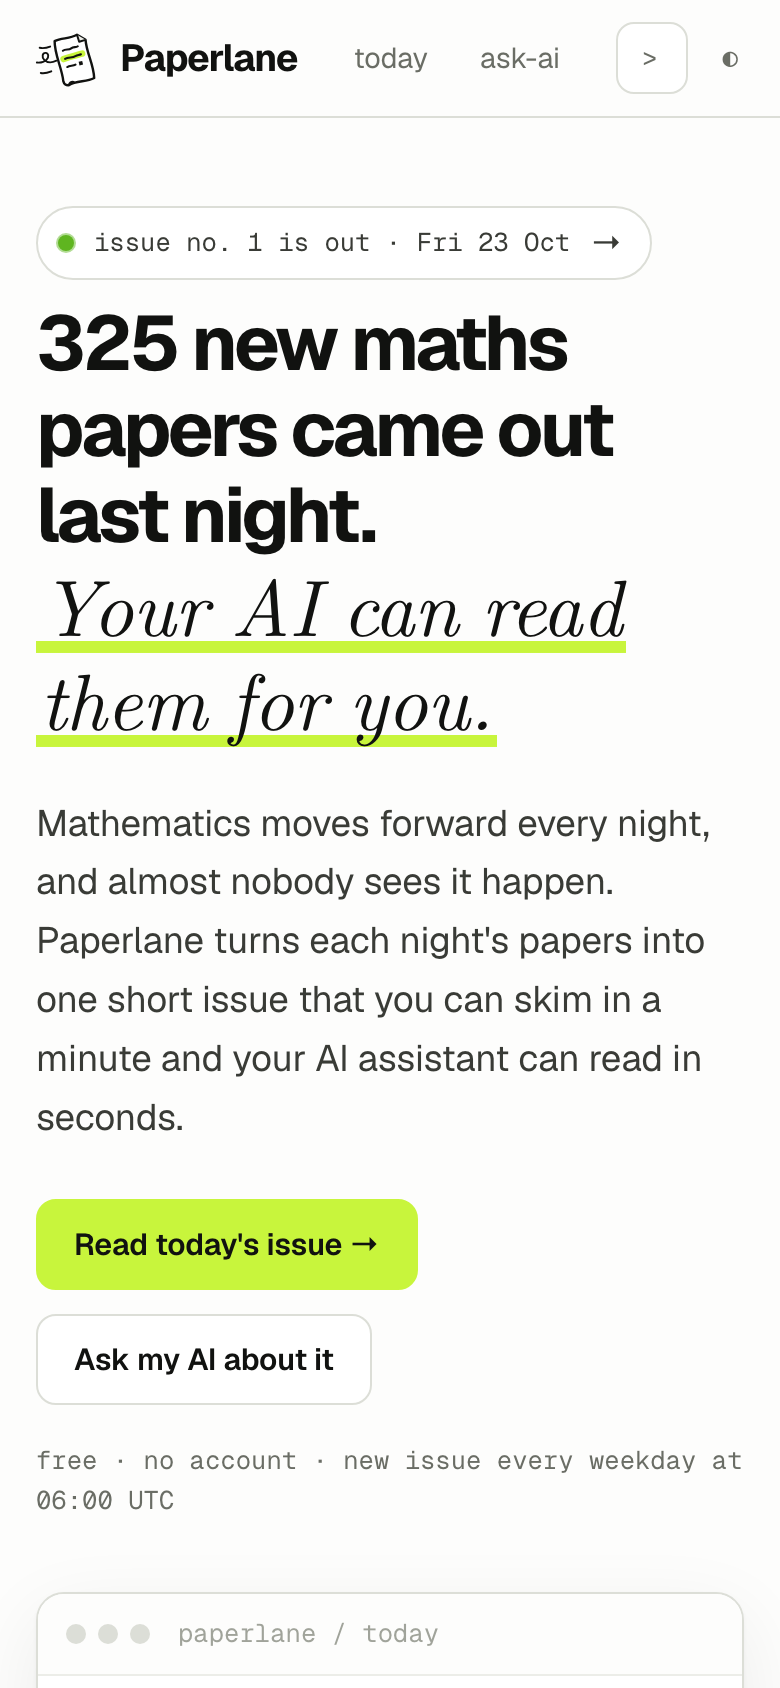
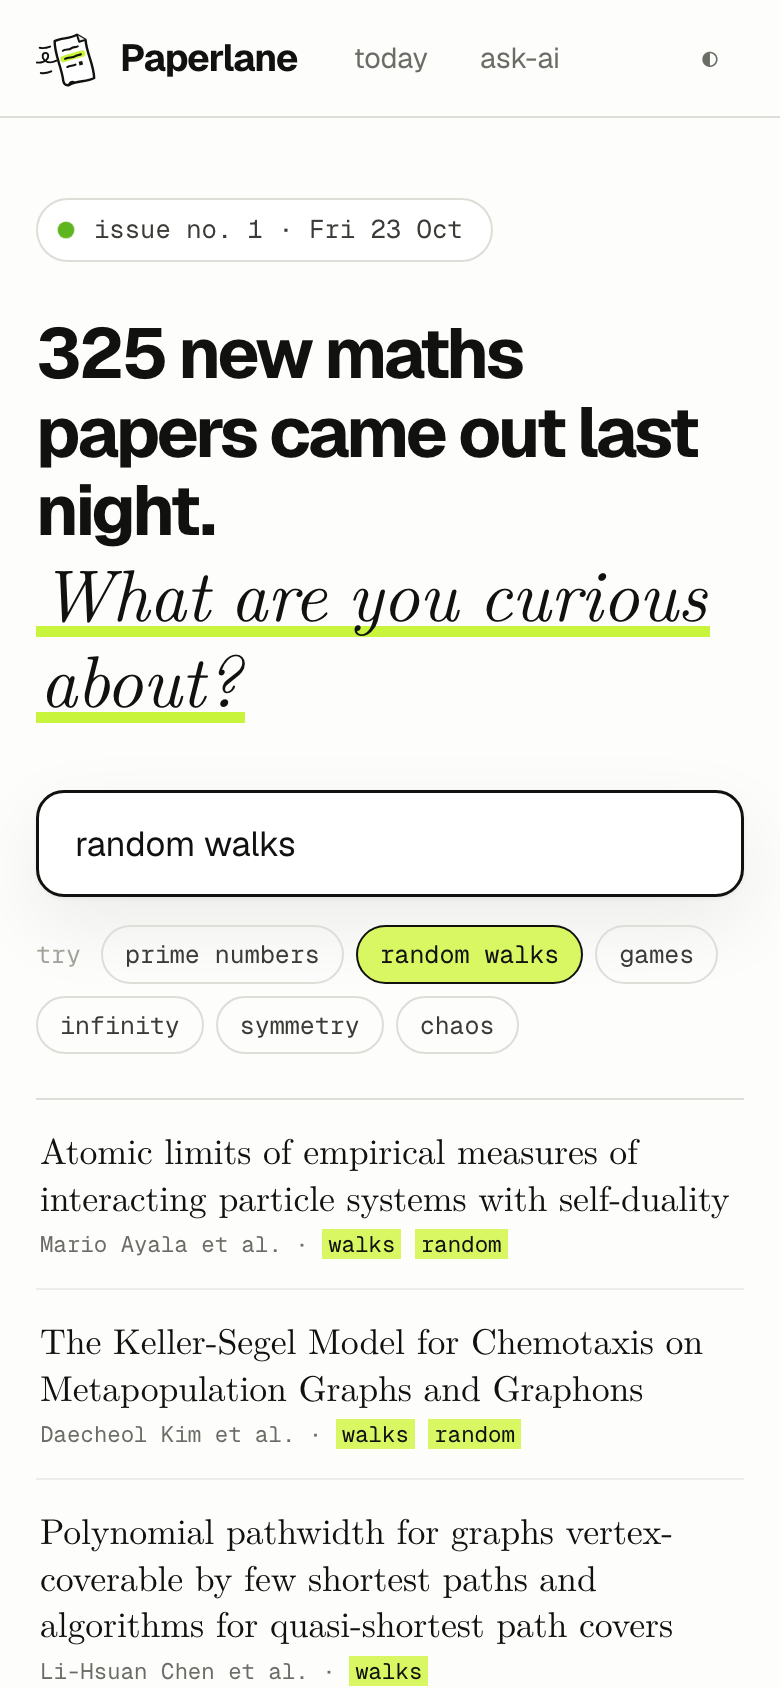
docs: show the search-first home page in the README
The quick start now starts from the search box, the order table became a short note on search, and the screenshots show a search on the home page, the issue and a phone.

diff --git a/README.md b/README.md
@@ -12,7 +12,7 @@
 <p align="center">
   <a href="https://pragyaangaur.github.io/Paperlane/"><b>Read today's issue</b></a>
   &nbsp;·&nbsp;
-  <a href="https://pragyaangaur.github.io/Paperlane/#lane">Set up your lane</a>
+  <a href="https://pragyaangaur.github.io/Paperlane/ask.html">Ask your AI</a>
   &nbsp;·&nbsp;
   <a href="https://pragyaangaur.github.io/Paperlane/llms.txt">llms.txt</a>
   &nbsp;·&nbsp;
@@ -21,44 +21,31 @@
 
 Every weekday a few hundred new mathematics papers come out. One night of them is about 57,000 words of abstracts, the length of a short novel, and almost nobody sees it happen. Paperlane turns each night into one short issue that you can skim in a minute and your AI assistant can read in seconds.
 
-If you do research, you pick your fields and say what you work on, and the papers closest to your work come first. If you are simply curious, you paste one prompt into the AI you already pay for, and it tells you what mathematicians found last night in plain words.
+Type anything you are curious about and the matching papers from last night appear as you type. If you do research, type what you work on and the closest papers come first. If you would rather not read papers at all, paste one prompt into the AI you already pay for, and it tells you what mathematicians found last night in plain words.
 
 Paperlane is free, needs no account and sets no cookies.
 
 <p align="center">
-  <img src="docs/home.png" alt="The Paperlane home page with today's issue, the lane builder and a contents card" width="92%">
+  <img src="docs/home.png" alt="The Paperlane home page, where typing prime numbers shows the matching papers from last night" width="92%">
 </p>
 
-## Start in thirty seconds
+## Start in ten seconds
 
-1. Open [Paperlane](https://pragyaangaur.github.io/Paperlane/) and tick the fields you follow under **Make it your lane**.
-2. Type a few phrases about your work, such as `graph colouring, random walks`.
-3. Press **Open my lane**. Your papers rise to the top, and each one shows the words that matched.
-
-Paperlane remembers your fields and interests in your own browser. A lane link carries its settings, so you can bookmark it or send it to a colleague.
+1. Open [Paperlane](https://pragyaangaur.github.io/Paperlane/).
+2. Type a topic, such as `random walks`, or press one of the suggestions under the box.
+3. Open any paper that catches your eye, or press **see all** to get the whole issue ranked for what you typed.
 
 <p align="center">
-  <img src="docs/lane.png" alt="An issue ranked for graph colouring and random walks, with matched words highlighted under each paper" width="92%">
+  <img src="docs/search.png" alt="The day's issue searched for random walks, best match first, with the matching words highlighted under each paper" width="92%">
 </p>
 
 ## What you can do
 
-- **Skim by field.** Papers are grouped under their main field, and each field shows its first three papers until you ask for the rest. A row of field links at the top jumps straight to the one you want.
-- **Rank for yourself.** The **for me** order ranks the whole issue against your interests in your browser.
-- **Filter fast.** One search box covers titles, authors and abstracts. The **Code** and **Lean** buttons keep only papers that link to code or to a Lean formalisation.
+- **Search the night.** One box ranks every paper against what you type, best match first, and shows the words that matched. Titles count twice, exact phrases get a bonus, and British and American spellings match each other. It runs in your browser with BM25, the formula behind most search engines, and nothing you type is sent anywhere.
+- **Skim by field.** With no search, papers sit under their main field, three at a time until you ask for the rest. Fields you pick move to the top next time.
+- **Keep code and proofs.** The **Code** and **Lean** buttons keep only papers that link to code or to a Lean formalisation.
 - **Open any paper.** Paste an arXiv link or id into the box in the header. Papers from any issue open on their own page, and older papers are looked up for you.
 - **Take the Markdown.** Every paper has a Markdown version one click away, ready for a chat window or your notes.
-
-## How the order works
-
-The page always says which order is in use, so nothing about the ranking is hidden.
-
-| Order | What it does |
-| --- | --- |
-| **by field** | Groups papers under their main field, largest first, with your own fields on top. Inside a field, papers keep the order in which they were submitted. |
-| **for me** | Ranks papers against your interests with BM25, the standard formula behind most search engines. Titles count twice, exact phrases get a bonus, and British and American spellings match each other. It runs in your browser and your interests are never sent anywhere. |
-| **newest** | Puts the latest submissions first. |
-| **shortest** | Sorts by the page count that the authors give. |
 
 Paperlane never ranks a paper by who wrote it.
 
@@ -133,7 +120,7 @@ Paperlane counts visits with [GoatCounter](https://www.goatcounter.com), which s
 ## What comes next
 
 - A check that linked Lean projects actually compile, so the Lean tag can mean a verified proof.
-- An optional email digest of your lane.
+- An optional email digest of the papers on your topics.
 - A direct connection for AI assistants, so an agent can ask Paperlane for today's papers in your fields.
 
 ## Feedback
